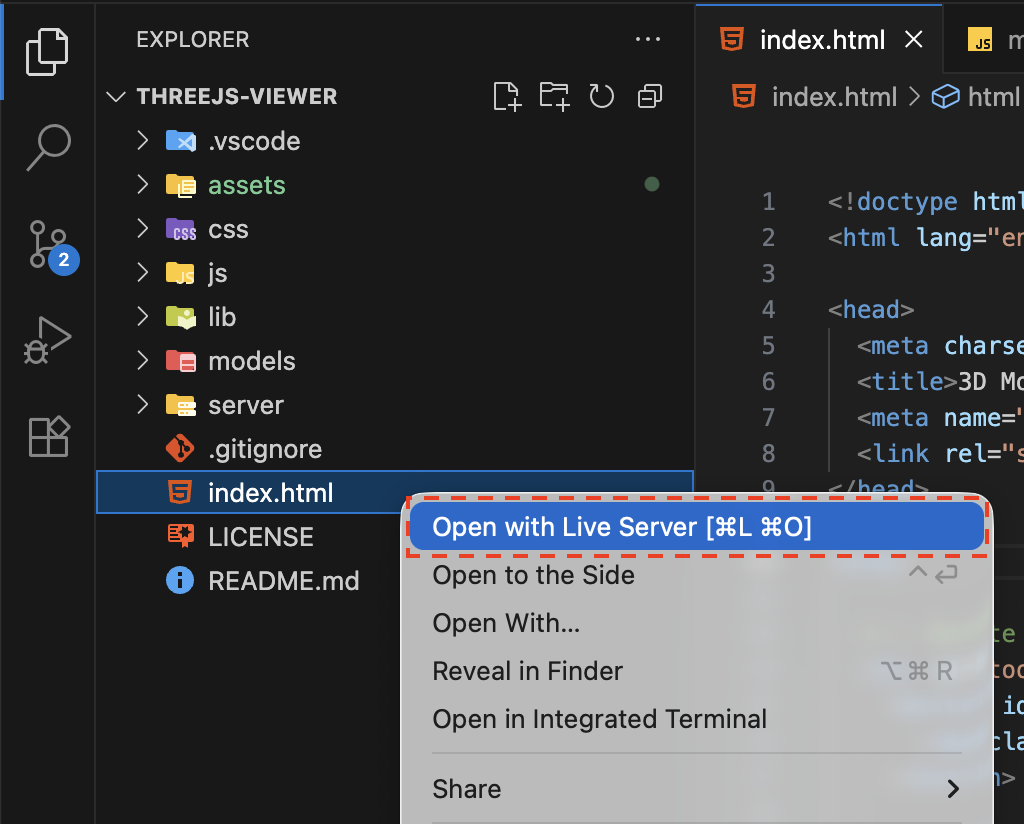
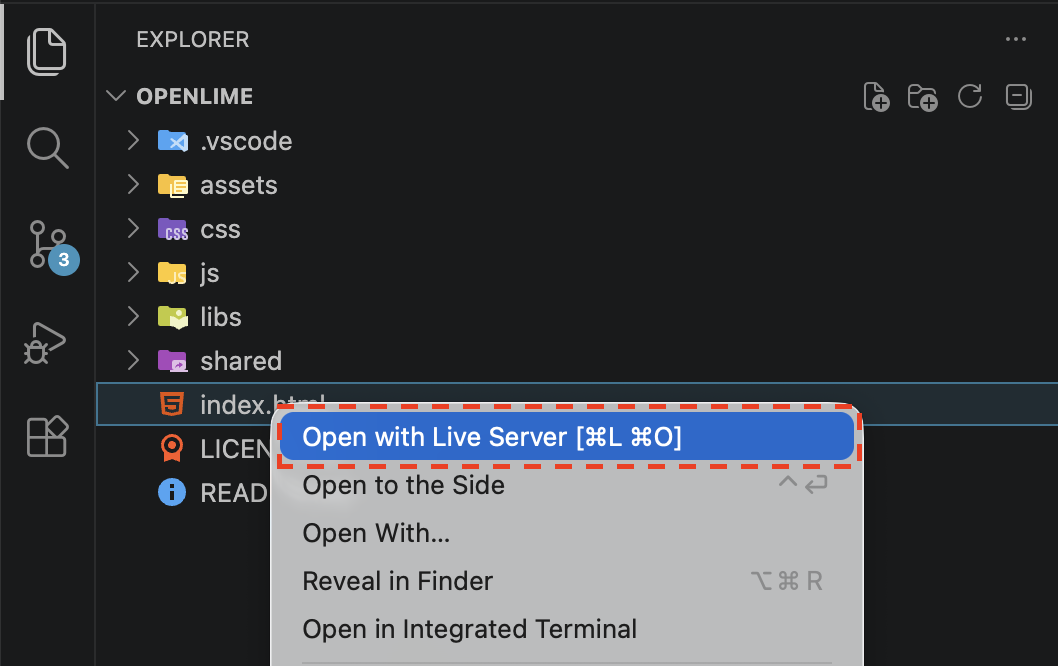
update README

diff --git a/README.md b/README.md
@@ -9,7 +9,7 @@
 **OpenLIME** is jointly developed by [CRS4 Visual and Data-intensive Computing Group](https://www.crs4.it/en/research-and-development-sectors/vidic/) and [CNR ISTI - Visual Computing Lab](http://vcg.isti.cnr.it/). 
 
 ## Getting Started
-Install Visual Studio Code.
+Install Visual Studio Code and drag in the unzipped folder.
 
 1. Click the extensions tab on the left toolbar.
 ![Open extensions](./assets/Readme/screenshot1.png)
